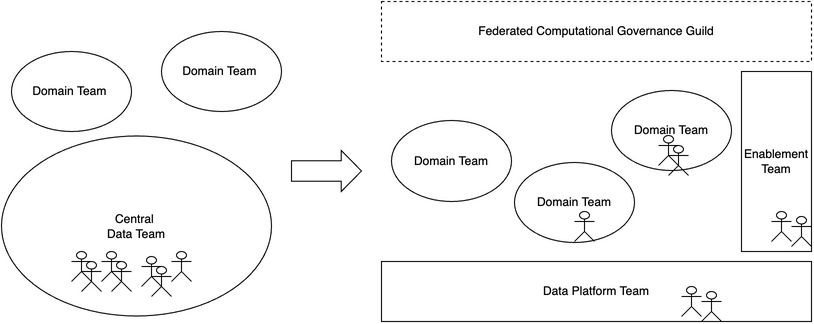
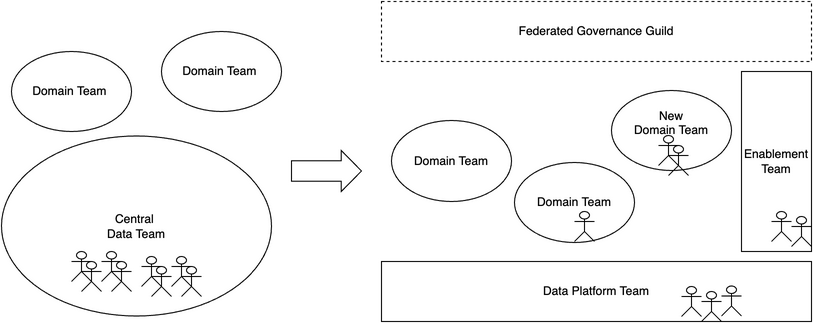
WIP

diff --git a/index.html b/index.html
@@ -527,7 +527,7 @@
         <img src="images/datateamjourney.svg" alt="">
 
         <p>
-            Data Mesh is primarily an organizational construct and relies on the principles of team topologies.
+            Data Mesh is primarily an organizational construct and relies on the <a href="https://teamtopologies.com/key-concepts">principles of team topologies</a>.
             It shifts the responsibilities for data towards domain teams which are supported by a data platform team and a data enablement team.
             Representatives of all teams come together in a federated governance guild to define the common standards.
         </p>
@@ -535,13 +535,37 @@
             Today, in many organizations a central data team is responsible for wide-ranging analytical tasks, from data-engineering to managing data infrastructure to creating C-level reports.
             Such a central data team suffers from cognitive overload, including domain, technical, and methodical knowledge.
             Data Mesh mitigates this.
-            It offers new perspectives for members of the central data team as their analytical and data engineering skills remain highly necessary.
+        </p>
+        <p>
+            Data Mesh offers new perspectives for members of the central data team as their analytical and data engineering skills remain highly necessary.
             For example, they are a perfect fit to establish the data platform for people that prefer to work on the infrastructure.
-            Some of them can form a data enablement team to act as internal consultants, helping domain teams on their journey.
-            Despite their new roles, they are also destined to contribute in the Data Mesh federated governance guild, which is responsible to agree on the interoperability of data products and enforcing regulations.
+            Some of them can form a data enablement team to act as internal consultants, <a href="#domain-teams-journey">helping domain teams on their journey</a>.
+            Regardless of their new roles, many of them will meet again in the Data Mesh federated governance guild to shape the future of the Data Mesh.
         </p>
         <p>
             The real mind shift, however, happens when founding new data-centric domains.
+            Let's look at typical management reports that large central data teams usually produces bases on monolithic data warehouses or data lakes.
+            With Data Mesh, the data engineers that created those management reports form a new controlling domain team.
+            It sole purpose is to
+
+            - focus on my domain / consumer
+            - domain knowledge
+            - bessere reports
+            - -> continuous optimization
+
+            - use data products
+            - Demand for new data products
+
+
+
+
+
+
+
+
+
+
+
             This allows them to focus on one stakeholder and provide their data as an actual product.
             TBD... (examples, join existing teams (but not being "the data guy"), product thinking, OpEx, Results to operational systems, )
         </p>
